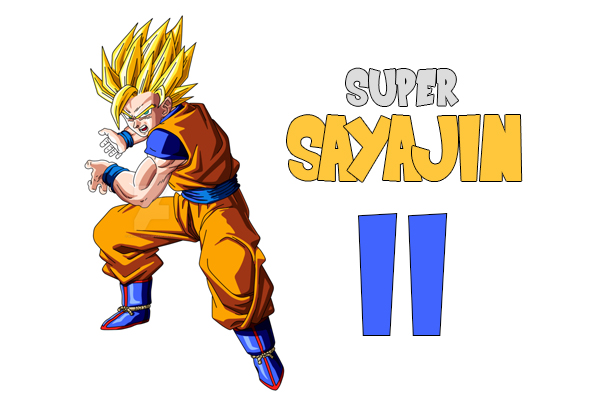
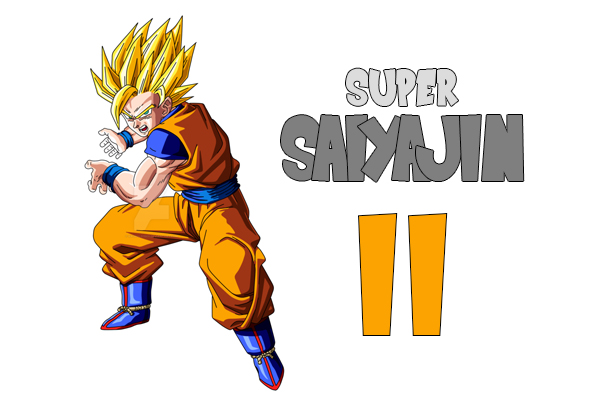
update images and readme

Changed region(s): [[0.45, 0.27, 0.9, 0.48], [0.6, 0.51, 0.75, 0.84]]

diff --git a/README.md b/README.md
@@ -55,11 +55,11 @@ https://media.giphy.com/media/KdzF8XLE3FwXe/giphy.gif
 
 ## Níveis
 
-- Super Sayajin I
-- Super Sayajin II
-- Super Sayajin III
-- Super Sayajin IV
-- Super Sayajin V
+- Super Saiyajin I
+- Super Saiyajin II
+- Super Saiyajin III
+- Super Saiyajin IV
+- Super Saiyajin V
 
 Antes de falar da ementa de cada um eu quero que você entenda que TODO o conteúdo<br> 
 matemático será voltado para casos reais e eu LHE GARANTO que você usará na sua vida, <br>
@@ -100,7 +100,7 @@ Telegram
 
 <hr>
 
-### Super Sayajin I 
+### Super Saiyajin I 
 
 <p align="center">
   <img src="https://raw.githubusercontent.com/interaminense/Curso-JavaScript-Super-Sayajin/master/img/ss1.jpg">
@@ -290,7 +290,7 @@ Vários conceitos teóricos da Programação Funcional serão explicados e imple
 
 <hr>
 
-### Super Sayajin III
+### Super Saiyajin III
 
 <p align="center">
   <img src="https://raw.githubusercontent.com/interaminense/Curso-JavaScript-Super-Sayajin/master/img/ss3.jpg">
@@ -314,7 +314,7 @@ Vários conceitos teóricos da Programação Funcional serão explicados e imple
 
 <hr>
 
-### Super Sayajin IV
+### Super Saiyajin IV
 
 <p align="center">
   <img src="https://raw.githubusercontent.com/interaminense/Curso-JavaScript-Super-Sayajin/master/img/ss4.jpg">
@@ -328,7 +328,7 @@ Vários conceitos teóricos da Programação Funcional serão explicados e imple
 
 <hr>
 
-### Super Sayajin V
+### Super Saiyajin V
 
 <p align="center">
   <img src="https://raw.githubusercontent.com/interaminense/Curso-JavaScript-Super-Sayajin/master/img/ss5.jpg">
